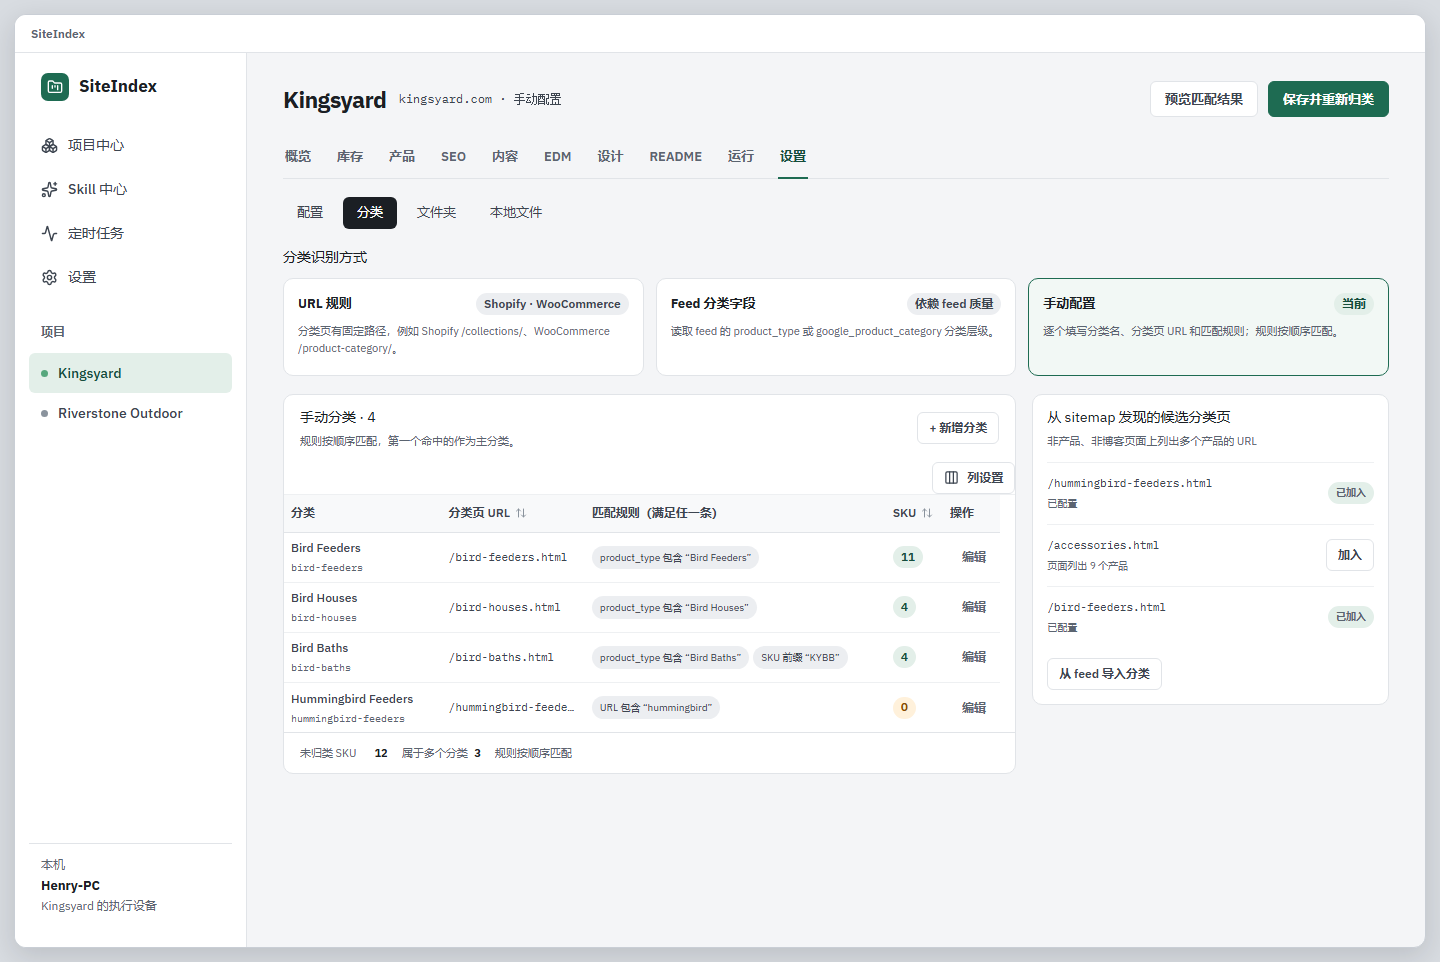
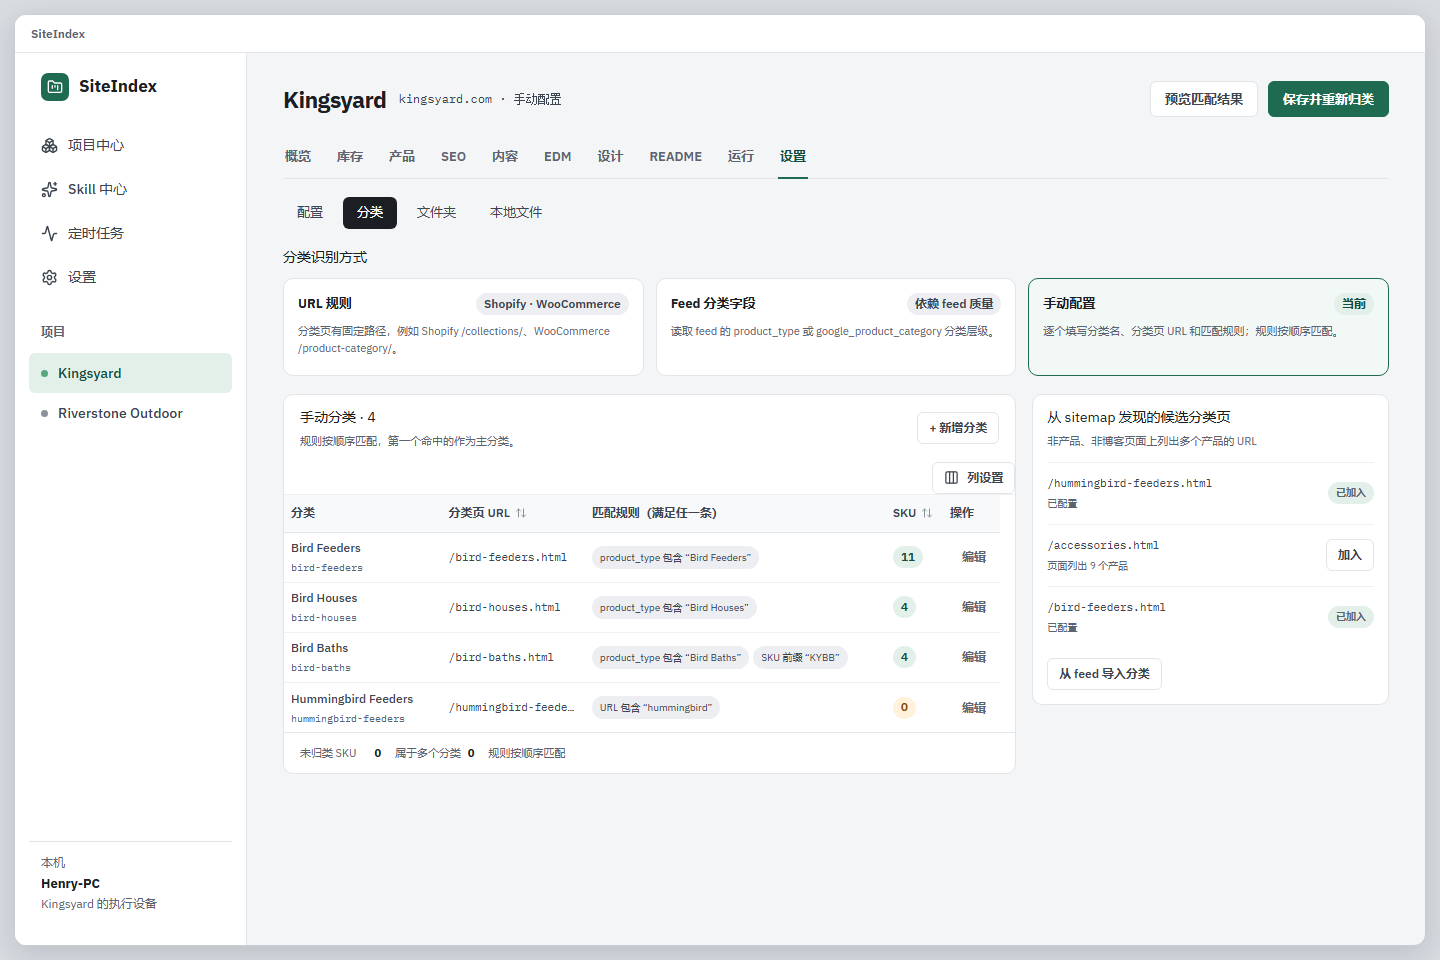
fix(ui): align category mock preview counts

diff --git a/packages/ui/src/mock/index.ts b/packages/ui/src/mock/index.ts
@@ -944,7 +944,7 @@ export function createMockApi(): SiteIndexApi {
       get: (id) => reply(categoryConfigs[projectKey(id)]),
       preview: (_id, config) => reply<CategoryPreview>(() => ({
         categories: (config.manual ?? categorySeeds.slice(0, 5)).map((category, index) => ({ slug: category.slug, name: category.name, url: category.url, sku_count: [11, 4, 4, 0][index] ?? 0 })),
-        uncategorized: 12, multi_matched: 3,
+        uncategorized: 0, multi_matched: 0,
         candidates: [
           { url: "/hummingbird-feeders.html", product_links: 6 },
           { url: "/accessories.html", product_links: 9 },
@@ -953,7 +953,7 @@ export function createMockApi(): SiteIndexApi {
       })),
       save: (id, config) => reply(() => {
         categoryConfigs[projectKey(id)] = clone(config);
-        return { categories: (config.manual ?? categorySeeds).map((category, index) => ({ slug: category.slug, name: category.name, url: category.url, sku_count: [11, 4, 4, 0][index] ?? 0 })), uncategorized: 12, multi_matched: 3, candidates: [] };
+        return { categories: (config.manual ?? categorySeeds).map((category, index) => ({ slug: category.slug, name: category.name, url: category.url, sku_count: [11, 4, 4, 0][index] ?? 0 })), uncategorized: 0, multi_matched: 0, candidates: [] };
       }),
     },
     folders: {
